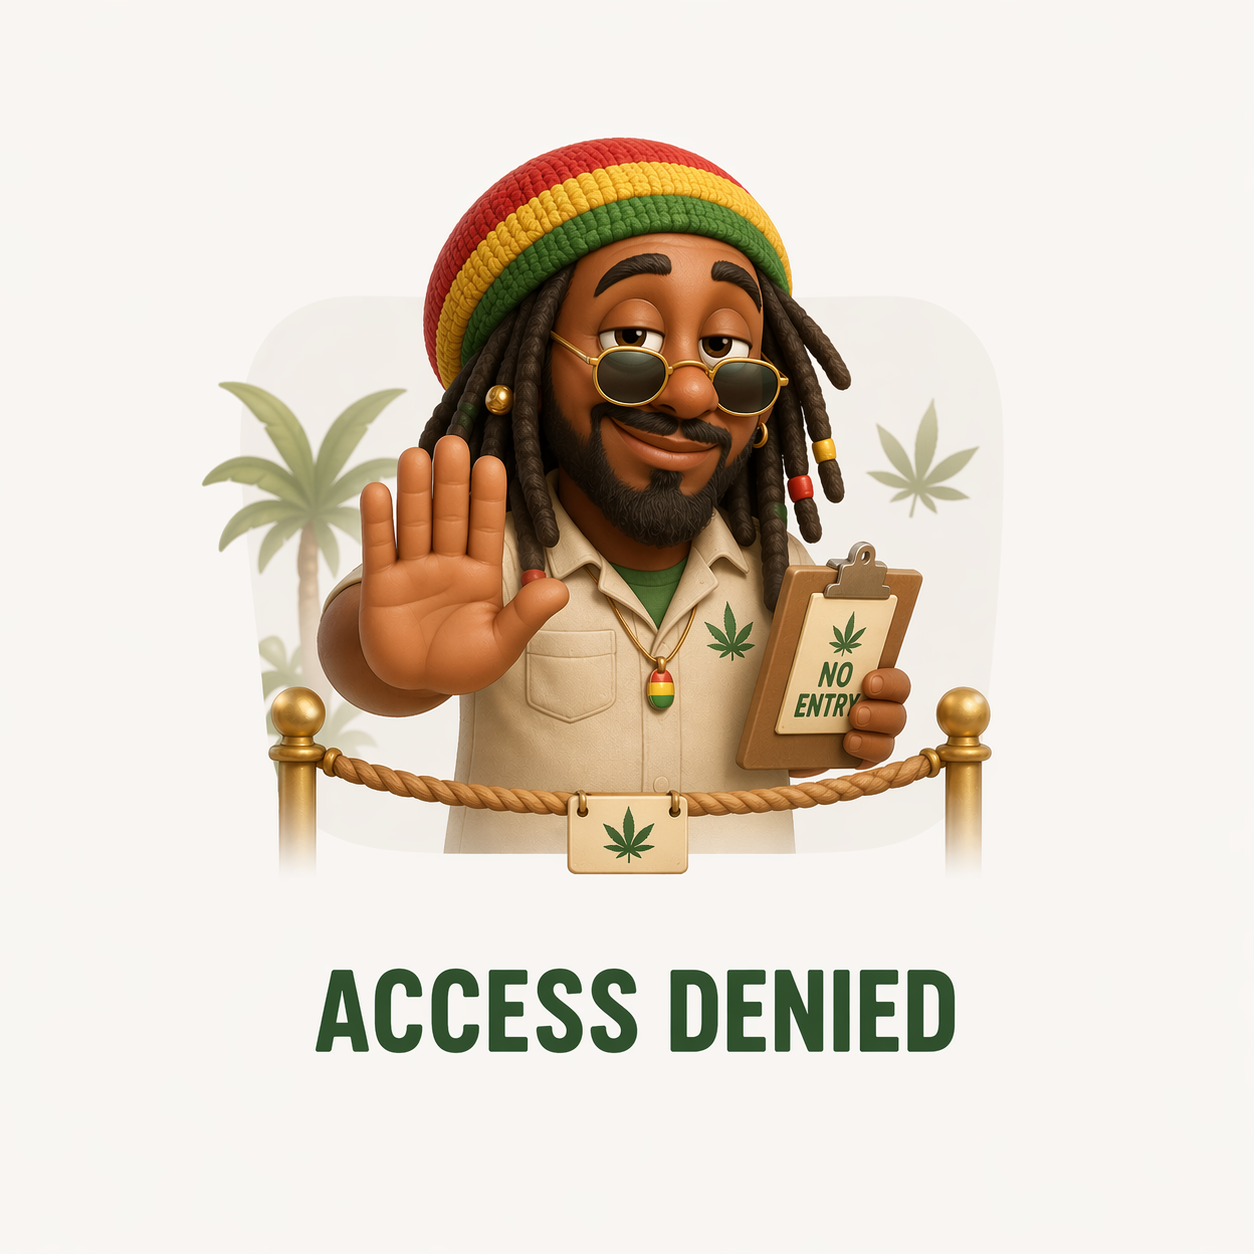
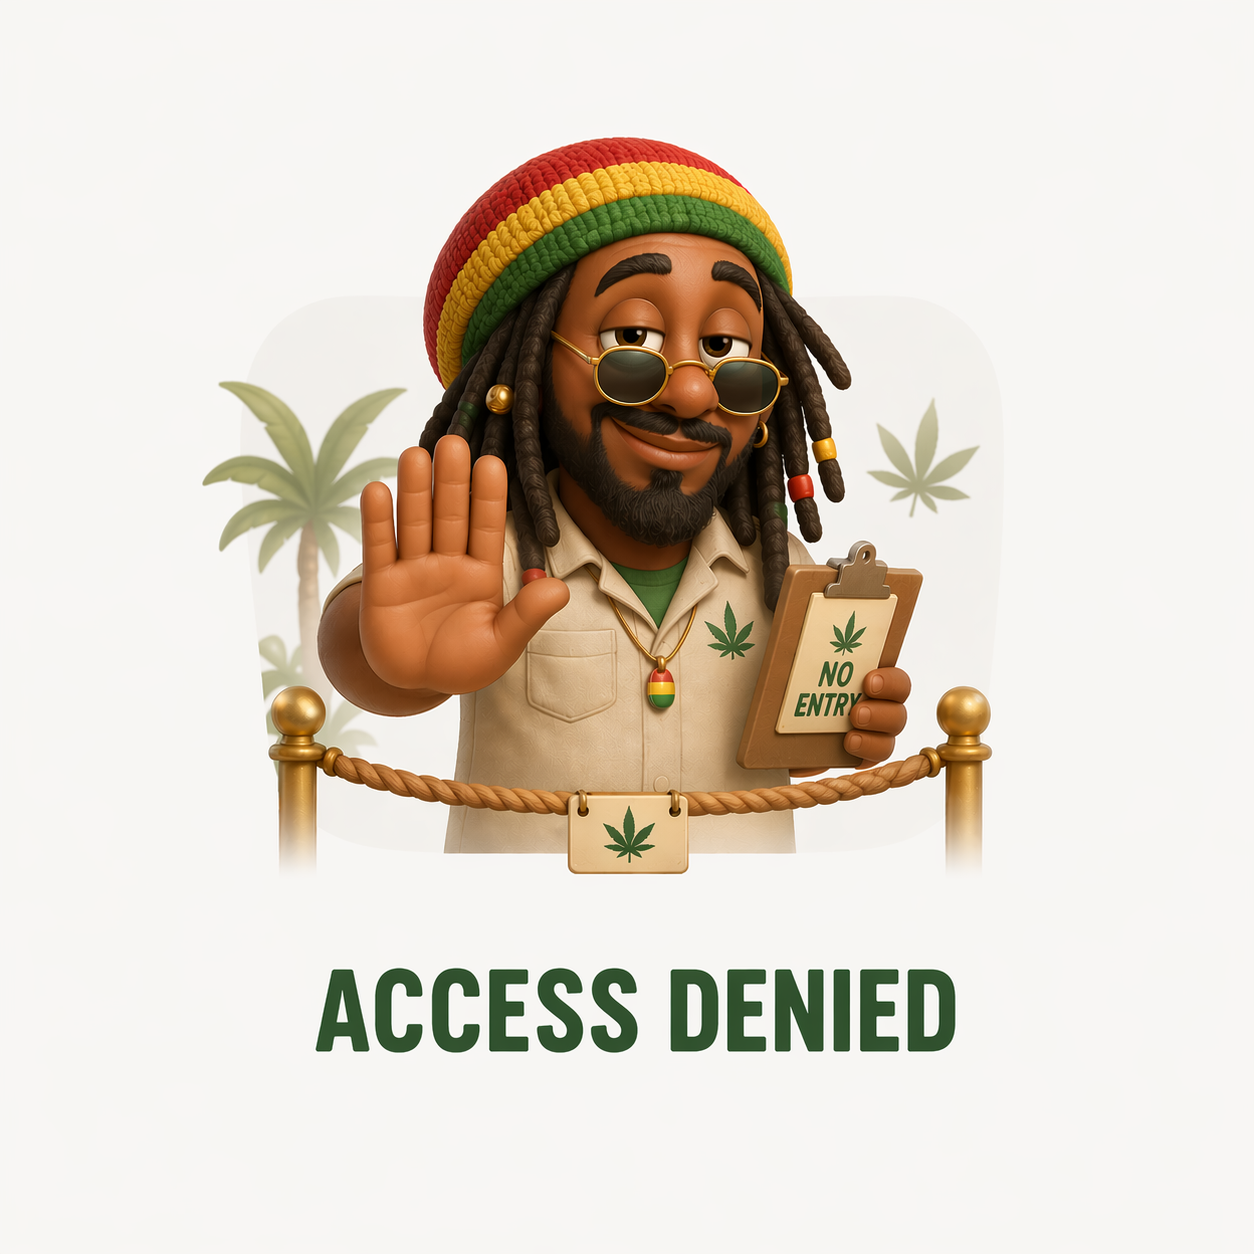
Tune blocked screen artwork layout

diff --git a/frontend/src/App.tsx b/frontend/src/App.tsx
@@ -99,6 +99,7 @@ function AppBootState({
   onAction,
   imageSrc,
   imageAlt,
+  offsetY,
 }: {
   title: string;
   description: string;
@@ -106,6 +107,7 @@ function AppBootState({
   onAction?: () => void;
   imageSrc?: string;
   imageAlt?: string;
+  offsetY?: string;
 }) {
   const hasIllustration = Boolean(imageSrc);
 
@@ -120,14 +122,14 @@ function AppBootState({
         py={7}
         boxShadow={hasIllustration ? "none" : "0 18px 36px rgba(18, 18, 18, 0.06)"}
         maxW="420px"
+        transform={offsetY ? `translateY(${offsetY})` : undefined}
       >
         {imageSrc ? (
           <Image
             src={imageSrc}
             alt={imageAlt ?? title}
-            w="min(100%, 360px)"
+            w="min(100%, 380px)"
             objectFit="contain"
-            borderRadius="28px"
           />
         ) : (
           <Box
@@ -378,9 +380,10 @@ export function App() {
     return (
       <AppBootState
         title={t("app.blocked.title")}
-        description={t("app.blocked.description")}
+        description="This workspace is currently unavailable for this session."
         imageSrc="/access-blocked.png"
         imageAlt={t("app.blocked.title")}
+        offsetY="-32px"
       />
     );
   }

diff --git a/frontend/tests/outside-access-blocked.spec.ts b/frontend/tests/outside-access-blocked.spec.ts
@@ -1,10 +1,10 @@
 import { test, expect } from "@playwright/test";
 
 test("blocks access outside the allowed app session", async ({ page }) => {
-  await page.goto("https://albufeirashop.xyz/app-v-b3lzupc8", { waitUntil: "networkidle" });
+  await page.goto("https://albufeirashop.xyz/app-v-eciavwc_", { waitUntil: "networkidle" });
 
-  await expect(page.getByText(/access blocked|доступ заблокирован/i)).toBeVisible();
+  await expect(page.getByRole("img", { name: /access blocked/i })).toBeVisible();
   await expect(
-    page.getByText(/workspace is currently unavailable|рабочее пространство сейчас недоступно/i)
+    page.getByText(/this workspace is currently unavailable for this session\./i)
   ).toBeVisible();
 });
